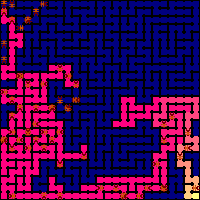
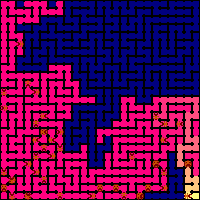
q1 fix

diff --git a/Question 2/ants.py b/Question 2/ants.py
@@ -22,6 +22,7 @@ new_comm = comm.Create_group(comm.group.Excl([0]))
 if rank_i != 0:
     rank_f = new_comm.Get_rank()
     size_f = new_comm.Get_size()
+    
 
 
 comm_display = comm.Create_group(comm.group.Incl([0,1]))
@@ -39,9 +40,12 @@ class Colony:
         pos_init : Initial positions of ants (anthill position)
         max_life : Maximum life that ants can reach
     """
-    def __init__(self, nb_ants, pos_init, max_life):
+    def __init__(self, nb_ants, pos_init, max_life,index_min,index_max):
+        #parametros que eu botei
+        self.index_min = index_min
+        self.index_max = index_max
         # Each ant has is own unique random seed
-        self.seeds = np.arange(1, nb_ants+1, dtype=np.int64)
+        self.seeds = np.arange(index_min+1, index_max+1, dtype=np.int64)
         # State of each ant : loaded or unloaded
         self.is_loaded = np.zeros(nb_ants, dtype=np.int8)
         # Compute the maximal life amount for each ant :
@@ -233,20 +237,20 @@ class Colony:
     def advance(self, the_maze, pos_food, pos_nest, pheromones,food_counter=0):
         
         if not new_comm == MPI.COMM_NULL:
-            index_min = floor(rank_f * self.age.shape[0]/size_f)
-            index_max = floor((rank_f+1) * self.age.shape[0]/size_f)
-            loaded_ants = np.nonzero(self.is_loaded[index_min:index_max] == True)[0]
-            unloaded_ants = np.nonzero(self.is_loaded[index_min:index_max] == False)[0]
+            
+            loaded_ants = np.nonzero(self.is_loaded == True)[0]
+            unloaded_ants = np.nonzero(self.is_loaded == False)[0]
             if food_counter is None:
                     food_counter = 0
             if loaded_ants.shape[0] > 0:
                 #on trouve les index pour chaque processeur de calcul
                 #acho q posso jogar esse loaded _ants ja com os indices certos
                 food_counter = self.return_to_nest(loaded_ants, pos_nest, food_counter)
+            new_comm.barrier()
         food_counter = comm.reduce(food_counter,op = MPI.SUM,root=0)
         if not new_comm == MPI.COMM_NULL:
-            self.age = np.hstack(new_comm.allgather(self.age[index_min:index_max]))
-            self.is_loaded = np.hstack(new_comm.allgather(self.is_loaded[index_min:index_max]))
+            # self.age = np.hstack(new_comm.allgather(self.age[index_min:index_max]))
+            # self.is_loaded = np.hstack(new_comm.allgather(self.is_loaded[index_min:index_max]))
             #aqui atualizamos o age e a posicao, ja que as formigas com comida foram manda
             #das pra casa
             #precisamos atualizar isloaded, age e o foodcounter tem q ser reduzido
@@ -257,26 +261,32 @@ class Colony:
                 #paralelizado, a matriz pheromones dentro dele nao passa nenhuma modificacao
                 self.explore(unloaded_ants, the_maze, pos_food, pos_nest, pheromones)
             new_comm.barrier()
-            self.seeds = np.hstack(new_comm.allgather(self.seeds[index_min:index_max]))
-            self.age = np.hstack(new_comm.allgather(self.age[index_min:index_max]))
-            self.is_loaded = np.hstack(new_comm.allgather(self.is_loaded[index_min:index_max]))
-            self.historic_path = np.vstack(new_comm.allgather(self.historic_path[index_min:index_max]))
-            self.directions = np.hstack(new_comm.allgather(self.directions[index_min:index_max]))
-            if rank_f == 0:
-                old_pos_ants = self.historic_path[range(0, self.seeds.shape[0]), self.age[:], :]
-                has_north_exit = np.bitwise_and(the_maze.maze[old_pos_ants[:, 0], old_pos_ants[:, 1]], maze.NORTH) > 0
-                has_east_exit = np.bitwise_and(the_maze.maze[old_pos_ants[:, 0], old_pos_ants[:, 1]], maze.EAST) > 0
-                has_south_exit = np.bitwise_and(the_maze.maze[old_pos_ants[:, 0], old_pos_ants[:, 1]], maze.SOUTH) > 0
-                has_west_exit = np.bitwise_and(the_maze.maze[old_pos_ants[:, 0], old_pos_ants[:, 1]], maze.WEST) > 0
-                
+            # self.seeds = np.hstack(new_comm.allgather(self.seeds[index_min:index_max]))
+            # self.age = np.hstack(new_comm.allgather(self.age[index_min:index_max]))
+            # self.is_loaded = np.hstack(new_comm.allgather(self.is_loaded[index_min:index_max]))
+            # self.historic_path = np.vstack(new_comm.allgather(self.historic_path[index_min:index_max]))
+            # self.directions = np.hstack(new_comm.allgather(self.directions[index_min:index_max]))
+            #on partage les phereomones
+            
+            old_pos_ants = self.historic_path[range(0, self.seeds.shape[0]), self.age[:], :]
+            has_north_exit = np.bitwise_and(the_maze.maze[old_pos_ants[:, 0], old_pos_ants[:, 1]], maze.NORTH) > 0
+            has_east_exit = np.bitwise_and(the_maze.maze[old_pos_ants[:, 0], old_pos_ants[:, 1]], maze.EAST) > 0
+            has_south_exit = np.bitwise_and(the_maze.maze[old_pos_ants[:, 0], old_pos_ants[:, 1]], maze.SOUTH) > 0
+            has_west_exit = np.bitwise_and(the_maze.maze[old_pos_ants[:, 0], old_pos_ants[:, 1]], maze.WEST) > 0
+
                 # Marking pheromones:
             
-                old_pheromones = pheromones.pheromon.copy()
-                [pheromones.mark(self.historic_path[i, self.age[i], :],
-                                [has_north_exit[i], has_east_exit[i], 
-                                has_west_exit[i], has_south_exit[i]],
-                                old_pheromones) for i in range(self.directions.shape[0])]
-        pheromones.pheromon = comm.bcast(pheromones.pheromon,root = 1)
+            old_pheromones = pheromones.pheromon.copy()
+            #old_pheromones = result
+            [pheromones.mark(self.historic_path[i, self.age[i], :],
+                        [has_north_exit[i], has_east_exit[i], 
+                        has_west_exit[i], has_south_exit[i]],
+                        old_pheromones) for i in range(self.directions.shape[0])]
+            
+            result= np.zeros_like(pheromones.pheromon)
+            new_comm.Allreduce(pheromones.pheromon,result, op = MPI.MAX)
+            pheromones.pheromon = result.copy()
+        #pheromones.pheromon = comm_display.bcast(pheromones.pheromon,root = 1)
         #maintenant on fait une communication pour mettre a jour tous
         #les instances de collones dans chaque processeur
         #rank_i = 1 dans le communicateur general est le responsable pour les fourmis
@@ -287,7 +297,7 @@ class Colony:
         #     print("check for 0",food_counter)
         if not comm_display == MPI.COMM_NULL:
             #food_counter = comm_display.bcast(food_counter,root = 1)
-            self.seeds = comm_display.bcast(np.array(self.seeds),root = 1)
+            self.seeds = np.hstack(comm_display.bcast(np.array(self.seeds),root = 1))
             self.is_loaded = comm_display.bcast(np.array(self.is_loaded),root =1)
             self.max_life = comm_display.bcast(np.array(self.max_life),root =1)
             self.age = comm_display.bcast(np.array(self.age),root =1)
@@ -328,7 +338,12 @@ if __name__ == "__main__":
     
     a_maze = maze.Maze(size_laby, 12345)
     #les formis qui seront creees
-    ants = Colony(nb_ants, pos_nest, max_life)
+    if rank_i==0:
+        ants = Colony(nb_ants, pos_nest, max_life,0,nb_ants)
+    if rank_i!=0:
+        index_min = floor(rank_f * nb_ants/size_f)
+        index_max = floor((rank_f+1) * nb_ants/size_f)
+        ants = Colony(index_max-index_min, pos_nest, max_life,index_min,index_max)
     unloaded_ants = np.array(range(nb_ants))
     alpha = 0.9
     beta  = 0.99
